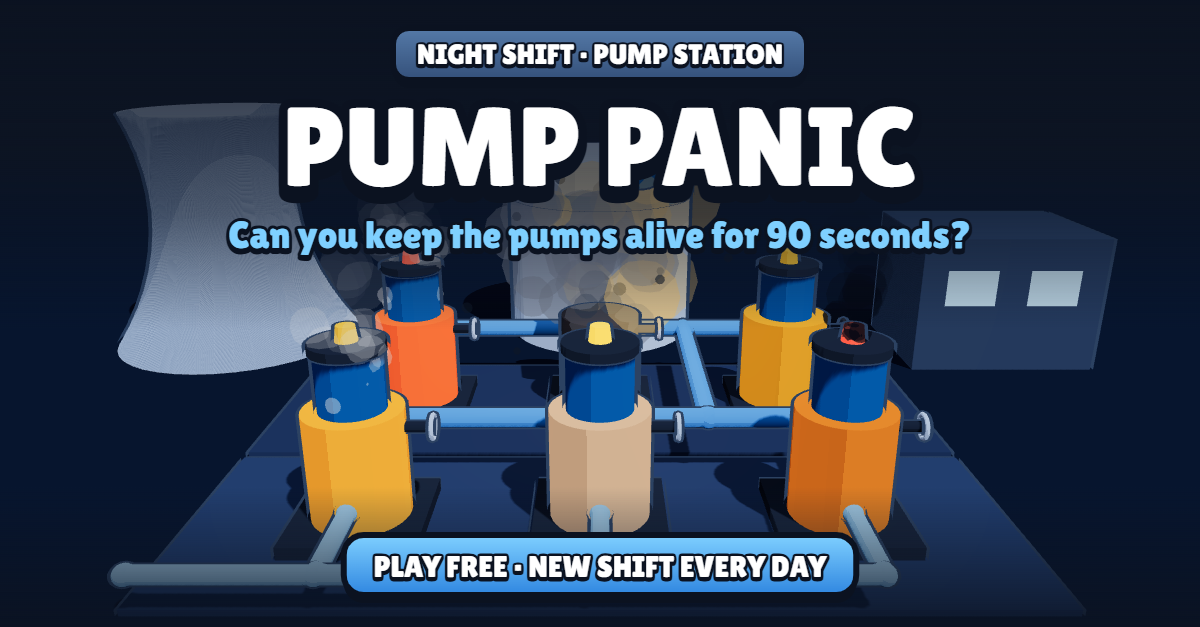
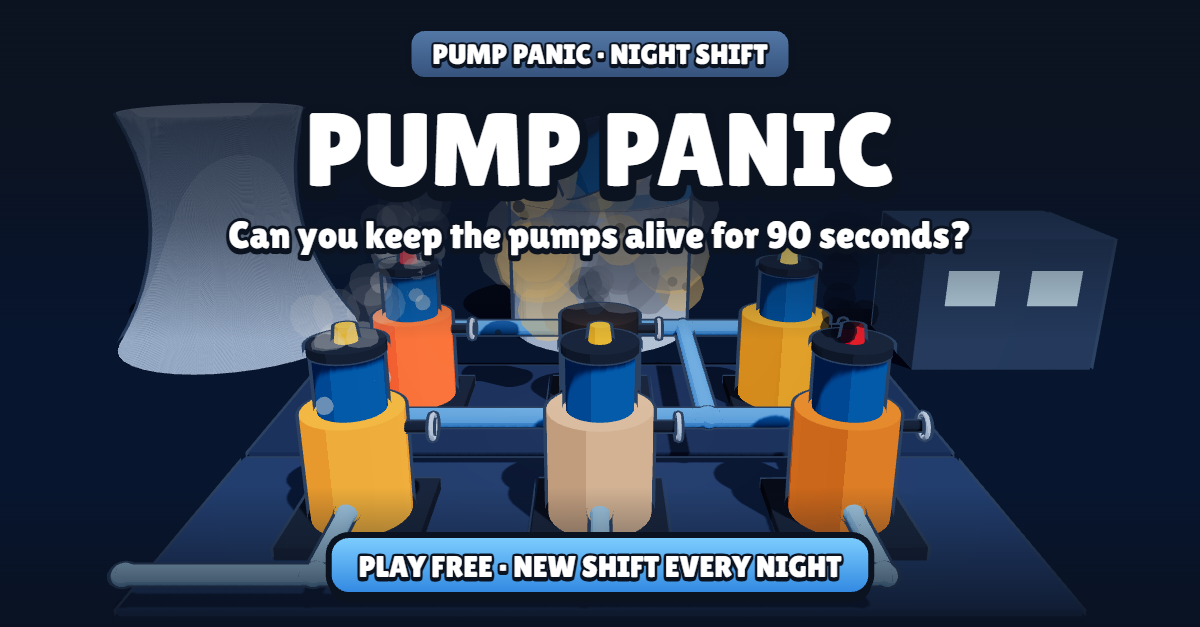
Tonight's shift, reliable phone sharing, simpler result image
- 'Daily shift' is now 'Tonight's shift' to fit the night-shift theme;
  preview images say 'New shift every night'.
- Phones share the post text with the link (LinkedIn adds the link card);
  image sharing from web pages was unreliable. Falls back to LinkedIn in
  the browser. Saving the image stays optional.
- Result image shows only what matters: what happened, score, rank and
  'Can you beat it?'. Details moved to the end screen.
- og-maker also rebuilds the main preview image.

diff --git a/src/share.js b/src/share.js
@@ -2,7 +2,8 @@
 // share.js — the result card image + sharing to LinkedIn
 //
 //   drawCard(result)      → a 1200×627 canvas (LinkedIn's image size):
-//                           a photo of the station with the results on top
+//                           a photo of the station with what happened,
+//                           the score and rank (details stay on the end screen)
 //   shareText(result)     → the post text, with a Wordle-style strip
 //   shareResult(result)   → phone: share sheet with image (pick LinkedIn)
 //                           desktop: save image + copy text + open a LinkedIn post
@@ -92,80 +93,81 @@ export async function drawCard(r) {
     ctx.fillStyle = bg;
     ctx.fillRect(0, 0, W, H);
   }
-  // Darken the top and bottom so the text is easy to read
-  const topShade = ctx.createLinearGradient(0, 0, 0, 300);
-  topShade.addColorStop(0, 'rgba(11,18,32,0.92)');
-  topShade.addColorStop(0.6, 'rgba(11,18,32,0.55)');
-  topShade.addColorStop(1, 'rgba(11,18,32,0)');
-  ctx.fillStyle = topShade;
-  ctx.fillRect(0, 0, W, 300);
-  const bottomShade = ctx.createLinearGradient(0, H - 150, 0, H);
-  bottomShade.addColorStop(0, 'rgba(11,18,32,0)');
-  bottomShade.addColorStop(1, 'rgba(11,18,32,0.9)');
-  ctx.fillStyle = bottomShade;
-  ctx.fillRect(0, H - 150, W, 150);
+  // Darken top and bottom so the text is easy to read; the middle stays a clear photo
+  const shade = (y0, y1, from, to) => {
+    const g = ctx.createLinearGradient(0, y0, 0, y1);
+    g.addColorStop(0, `rgba(11,18,32,${from})`);
+    g.addColorStop(1, `rgba(11,18,32,${to})`);
+    ctx.fillStyle = g;
+    ctx.fillRect(0, y0, W, y1 - y0);
+  };
+  shade(0, 330, 0.92, 0);
+  shade(H - 200, H, 0, 0.92);
 
-  // ── Top-left: which shift, how it ended, game name, rank ──
-  const tab = r.mode === 'daily' ? `DAILY SHIFT #${r.day} · ${r.dayLabel.toUpperCase()}` : 'PRACTICE SHIFT';
+  // ── Small tab: game + which shift ──
+  const tab = r.mode === 'daily' ? `PUMP PANIC · TONIGHT'S SHIFT #${r.day}` : 'PUMP PANIC · PRACTICE SHIFT';
   ctx.font = '26px "Lilita One"';
   const tabW = ctx.measureText(tab).width + 44;
-  plate(ctx, 40, 30, tabW, 48, 16, '#557aa8', '#34507a');
-  outlined(ctx, tab, 40 + tabW / 2, 64, 26, '#fff', 'center');
+  plate(ctx, W / 2 - tabW / 2, 26, tabW, 48, 16, '#557aa8', '#34507a');
+  outlined(ctx, tab, W / 2, 60, 26, '#fff', 'center');
 
-  const status = r.stationDown ? 'STATION DOWN!' : 'SHIFT COMPLETE';
-  ctx.font = '26px "Lilita One"';
-  const stW = ctx.measureText(status).width + 44;
-  plate(ctx, 40 + tabW + 14, 30, stW, 48, 16, r.stationDown ? '#e2554f' : '#4fbf6a', r.stationDown ? '#a8302b' : '#2e8f4a');
-  outlined(ctx, status, 40 + tabW + 14 + stW / 2, 64, 26, '#fff', 'center');
+  // ── Headline: what happened (same words as the post), up to 2 lines ──
+  const kind = outcome(r);
+  const words = HEADLINES[kind].replace(/\p{Extended_Pictographic}/gu, '').trim().toUpperCase().split(/\s+/);
+  const MAX = 1100;
+  const width = (ws) => ctx.measureText(ws.join(' ')).width;
+  // Two lines of similar length (no single word left alone on line 2)
+  const balanced = () => {
+    let best = null;
+    for (let k = 1; k < words.length; k++) {
+      const a = words.slice(0, k);
+      const b = words.slice(k);
+      const worst = Math.max(width(a), width(b));
+      if (!best || worst < best.worst) best = { worst, lines: [a.join(' '), b.join(' ')] };
+    }
+    return best;
+  };
+  // Prefer one big line; otherwise two balanced lines, shrinking until they fit
+  let size = 80;
+  let lines = null;
+  for (; size >= 64 && !lines; size -= 4) {
+    ctx.font = `${size}px "Lilita One"`;
+    if (width(words) <= MAX) lines = [words.join(' ')];
+  }
+  if (!lines) {
+    for (size = 80; size >= 44; size -= 4) {
+      ctx.font = `${size}px "Lilita One"`;
+      const b = balanced();
+      if (b && b.worst <= MAX) {
+        lines = b.lines;
+        break;
+      }
+    }
+    if (!lines) lines = balanced()?.lines ?? [words.join(' ')]; // very long text: best effort
+  } else size += 4; // undo the last step of the loop
+  lines.forEach((line, k) => outlined(ctx, line, W / 2, 148 + k * size * 1.04, size, HEADLINE_COLORS[kind], 'center'));
 
-  outlined(ctx, 'PUMP PANIC', 44, 140, 40, '#7fd0ff');
-  outlined(ctx, r.rank, 44, 208, 64);
-
-  // ── Top-right: score + 4 small stats ──
-  plate(ctx, 820, 30, 340, 120, 24, '#3d5a80', '#2a4060');
-  ctx.font = '700 20px "Rubik"';
+  // ── Bottom-left: score + rank ──
+  outlined(ctx, fmt(r.score), 48, H - 70, 84);
+  ctx.font = '84px "Lilita One"';
+  const scoreW = ctx.measureText(fmt(r.score)).width;
+  ctx.font = '700 24px "Rubik"';
   ctx.fillStyle = '#b3c3d9';
-  ctx.textAlign = 'center';
-  ctx.fillText('SCORE', 990, 64);
-  outlined(ctx, fmt(r.score), 990, 128, 60, '#fff', 'center');
-
-  const stats = [
-    ['SAVED', r.saves],
-    ['BOOMS', `${r.explosions}/3`],
-    ['WATER', `${fmt(r.water)} m³`],
-    ['COMBO', `x${r.bestCombo}`],
-  ];
-  stats.forEach(([label, value], k) => {
-    const x = 820 + (k % 2) * 174;
-    const y = 172 + Math.floor(k / 2) * 66;
-    ctx.fillStyle = 'rgba(26,40,64,0.92)';
-    roundRect(ctx, x, y, 166, 56, 14);
-    ctx.fill();
-    ctx.lineWidth = 4;
-    ctx.strokeStyle = INK;
-    ctx.stroke();
-    ctx.font = '700 15px "Rubik"';
-    ctx.fillStyle = '#b3c3d9';
-    ctx.textAlign = 'left';
-    ctx.fillText(label, x + 14, y + 22);
-    outlined(ctx, String(value), x + 14, y + 48, 24);
-  });
-
-  // ── Bottom: timeline strip + call to action ──
-  const events = r.timeline.slice(-30); // the latest events (the finale matters most)
-  events.forEach((e, k) => {
-    ctx.fillStyle = e === 'boom' ? '#ef4444' : '#4fbf6a';
-    roundRect(ctx, 44 + k * 24, H - 112, 18, 18, 5);
-    ctx.fill();
-    ctx.lineWidth = 3;
-    ctx.strokeStyle = INK;
-    ctx.stroke();
-  });
-  outlined(ctx, 'Can you keep the pumps alive for 90 seconds?', 44, H - 52, 30);
-  ctx.font = '700 20px "Rubik"';
-  ctx.fillStyle = '#7fd0ff';
   ctx.textAlign = 'left';
-  ctx.fillText(`Play free: ${gameUrl().replace(/^https?:\/\//, '')}`, 46, H - 20);
+  ctx.fillText('POINTS', 48 + scoreW + 14, H - 76);
+  ctx.font = '24px "Lilita One"';
+  const rankW = ctx.measureText(r.rank.toUpperCase()).width + 36;
+  plate(ctx, 48, H - 58, rankW, 40, 14, '#557aa8', '#34507a');
+  outlined(ctx, r.rank.toUpperCase(), 48 + rankW / 2, H - 29, 24, '#fff', 'center');
+
+  // ── Bottom-right: the challenge ──
+  const cx = W - 48 - 220;
+  plate(ctx, W - 48 - 440, H - 124, 440, 96, 22, '#7fd0ff', '#2f86e0');
+  outlined(ctx, 'CAN YOU BEAT IT?', cx, H - 78, 40, '#fff', 'center');
+  ctx.font = '700 20px "Rubik"';
+  ctx.fillStyle = '#ffffff';
+  ctx.textAlign = 'center';
+  ctx.fillText(gameUrl().replace(/^https?:\/\//, '').replace(/\/$/, ''), cx, H - 44);
 
   return canvas;
 }
@@ -174,6 +176,9 @@ export async function drawCard(r) {
 
 // The opening line of the post, one per outcome. Same words as the link
 // preview titles (public/r/<outcome>/index.html), so the post reads as one.
+// Color of the headline on the result image, per outcome
+const HEADLINE_COLORS = { flawless: '#8ff59d', 'one-boom': '#ffd166', 'two-booms': '#ffb15c', meltdown: '#ff6b5e' };
+
 const HEADLINES = {
   flawless: 'Flawless shift! I kept every pump alive 🛠',
   'one-boom': 'Only one pump blew up on my watch 😅',
@@ -210,17 +215,27 @@ export async function shareResult(r) {
   const text = shareText(r);
   const isPhone = matchMedia('(pointer: coarse)').matches;
 
-  // Phones: the share sheet with the image attached (pick the LinkedIn app)
-  if (isPhone && navigator.canShare) {
-    const file = new File([await toBlob(await drawCard(r))], 'pump-panic.png', { type: 'image/png' });
-    if (navigator.canShare({ files: [file] })) {
+  // Phones: the phone's share sheet with the post TEXT (it includes the link,
+  // so LinkedIn adds the link card by itself). Sharing image files from a web
+  // page is unreliable on phones, so the image stays optional (⬇ button).
+  // Nothing is awaited before share(): phones only allow it right after a tap.
+  if (isPhone) {
+    if (navigator.share) {
       try {
-        await navigator.share({ files: [file], text });
-        return '';
-      } catch {
-        return ''; // player closed the share sheet
+        await navigator.share({ text });
+        return '✅ Shared! Tip: tap ⬇ to save the image for a bigger post.';
+      } catch (e) {
+        if (e.name === 'AbortError') return ''; // player closed the share sheet
+        // sharing isn't allowed here: use LinkedIn in the browser instead
       }
     }
+    window.open(`https://www.linkedin.com/feed/?shareActive=true&text=${encodeURIComponent(text)}`, '_blank', 'noopener');
+    try {
+      await navigator.clipboard.writeText(text);
+    } catch {
+      /* ignore */
+    }
+    return '✅ Your post is ready in LinkedIn. If the text is missing, paste it.';
   }
 
   // Desktop: a post WITH the image shows big in the feed (a plain link only

diff --git a/index.html b/index.html
@@ -4,14 +4,14 @@
     <meta charset="UTF-8" />
     <meta name="viewport" content="width=device-width, initial-scale=1.0, viewport-fit=cover" />
     <title>Pump Panic</title>
-    <meta name="description" content="Night shift at the pump station. Keep the pumps alive for 90 seconds. New shift every day." />
+    <meta name="description" content="Night shift at the pump station. Keep the pumps alive for 90 seconds. New shift every night." />
     <meta name="theme-color" content="#0e1726" />
     <link rel="icon" href="./favicon.svg" type="image/svg+xml" />
 
     <!-- Link preview (LinkedIn, WhatsApp, Slack…). Image must be a full URL. -->
     <meta property="og:type" content="website" />
     <meta property="og:title" content="Pump Panic: can you keep the pumps alive?" />
-    <meta property="og:description" content="A 90-second night shift at the pump station. Press the right tool before the pumps blow. New shift every day." />
+    <meta property="og:description" content="A 90-second night shift at the pump station. Press the right tool before the pumps blow. New shift every night." />
     <meta property="og:url" content="https://baharehtavakoli.github.io/pump-panic/" />
     <meta property="og:image" content="https://baharehtavakoli.github.io/pump-panic/og-image.png" />
     <meta property="og:image:width" content="1200" />
@@ -54,9 +54,9 @@
         <h1>Pump Panic</h1>
         <p class="lead">Keep the pumps alive for 90 seconds. Each pump in trouble shows the button it needs. Press it before the pump blows! Hall B joins halfway through.</p>
         <ul class="howto" id="howto"></ul>
-        <button class="btn-primary" id="btn-start">Play today's shift</button>
+        <button class="btn-primary" id="btn-start">Play tonight's shift</button>
         <button class="btn-secondary" id="btn-practice">Practice shift</button>
-        <p class="fineprint">3 explosions and the station goes down. Everyone gets the same daily shift.</p>
+        <p class="fineprint">3 explosions and the station goes down. Everyone gets the same shift each night.</p>
       </div>
     </section>
 
@@ -68,6 +68,8 @@
         <h1 id="over-rank"></h1>
         <!-- The shareable result card (same image that gets shared) -->
         <img class="result-card" id="over-card" alt="" />
+        <!-- Details stay here on the end screen, not on the shared image -->
+        <dl class="stats stats--row" id="over-stats"></dl>
         <p class="best" id="over-best"></p>
         <div class="share-row">
           <button class="btn-primary btn-linkedin" id="btn-share">

diff --git a/src/ui.js b/src/ui.js
@@ -74,7 +74,7 @@ export function createUI(handlers) {
 
   // Today's challenge number on the start button
   function setDaily(day) {
-    $('btn-start').textContent = `Play today's shift #${day.number}`;
+    $('btn-start').textContent = `Play tonight's shift #${day.number}`;
   }
 
   // ── Screens ────────────────────────────────────────────────
@@ -92,12 +92,21 @@ export function createUI(handlers) {
     const card = $('over-card');
     card.src = cardUrl;
     card.alt = `Score ${r.score}, ${r.saves} pumps saved, ${r.explosions} explosions, ${r.water} m³ water, best combo x${r.bestCombo}`;
+    // The details live here, not on the shared image
+    $('over-stats').innerHTML = [
+      ['Saved', r.saves],
+      ['Booms', `${r.explosions}/${CONFIG.maxExplosions}`],
+      ['Water', `${r.water.toLocaleString('en-US')} m³`],
+      ['Combo', `x${r.bestCombo}`],
+    ]
+      .map(([k, v]) => `<div><dt>${k}</dt><dd>${v}</dd></div>`)
+      .join('');
     $('over-best').textContent =
       r.mode === 'daily'
         ? r.score >= r.best
-          ? `New best for daily shift #${r.day}!`
-          : `Your best today: ${r.best.toLocaleString('en-US')}`
-        : 'Practice shift: try the daily shift to compare with others.';
+          ? `New best for tonight's shift #${r.day}!`
+          : `Your best tonight: ${r.best.toLocaleString('en-US')}`
+        : 'Practice shift: play tonight\'s shift to compare with others.';
     showScreen('screen-over');
   }
 

diff --git a/src/dev/og-maker.js b/src/dev/og-maker.js
@@ -9,6 +9,7 @@
 // ─────────────────────────────────────────────────────────────
 
 const OUTCOMES = {
+  image: { headline: 'PUMP PANIC', color: '#ffffff' }, // main link (og-image.png)
   flawless: { headline: 'FLAWLESS SHIFT!', color: '#8ff59d' },
   'one-boom': { headline: 'ONE PUMP DOWN', color: '#ffd166' },
   'two-booms': { headline: 'TWO PUMPS DOWN', color: '#ffb15c' },
@@ -51,7 +52,13 @@ async function makeOne({ frame, world, CONFIG, getGame }, kind) {
     g.pumps[i].danger = d;
   };
 
-  if (kind === 'flawless') {
+  if (kind === 'image') {
+    // Main preview: lots going on, one pump just blew
+    [[0, 'heat', 55], [1, 'pressure', 35], [2, 'clog', 78], [3, 'heat', 88], [5, 'pressure', 62]].forEach(([i, tr, d]) => trouble(i, tr, d));
+    step(1.6);
+    boom(4);
+    step(0.5);
+  } else if (kind === 'flawless') {
     step(0.2);
     [0, 2, 4].forEach((i) => world.celebrate(i));
     step(0.25);
@@ -149,7 +156,7 @@ async function compose(snapshot, { headline, color }) {
   text(headline, W / 2, 186, 104, color);
   text('Can you keep the pumps alive for 90 seconds?', W / 2, 248, 38);
   ctx.font = '30px "Lilita One"';
-  const cta = 'PLAY FREE · NEW SHIFT EVERY DAY';
+  const cta = 'PLAY FREE · NEW SHIFT EVERY NIGHT';
   const cw = ctx.measureText(cta).width + 60;
   plate(W / 2 - cw / 2, H - 92, cw, 60, 20, '#7fd0ff', '#2f86e0');
   text(cta, W / 2, H - 50, 30);

diff --git a/src/style.css b/src/style.css
@@ -482,3 +482,10 @@ h1, p { margin: 0; }
 /* Share steps: one line per step, left-aligned for easy reading */
 .share-note { white-space: pre-line; text-align: start; line-height: 1.5; font-size: 13px; color: #d9f7de;
   background: var(--well); border: 2px solid var(--ink); border-radius: 12px; padding: 8px 12px; }
+
+/* End screen: 4 small stats in one row, under the result image */
+.stats--row { grid-template-columns: repeat(4, 1fr); gap: 6px; }
+.stats--row div { padding: 6px 4px; text-align: center; }
+.stats--row div:first-child { grid-column: auto; }
+.stats--row dt { font-size: 10px; }
+.stats--row dd, .stats--row div:first-child dd { font-size: 17px; text-shadow: 0 2px 0 var(--ink); }

diff --git a/README.md b/README.md
@@ -6,7 +6,7 @@ Press the right button and do the gesture before it blows. Three explosions and 
 
 **Play:** https://baharehtavakoli.github.io/pump-panic/
 
-- Daily shift: everyone gets the same sequence of problems each day, so scores are comparable.
+- Tonight's shift: everyone gets the same sequence of problems each night (a new one every day), so scores are comparable.
 - Share your result card on LinkedIn, or save it as an image.
 
 ## Run locally
